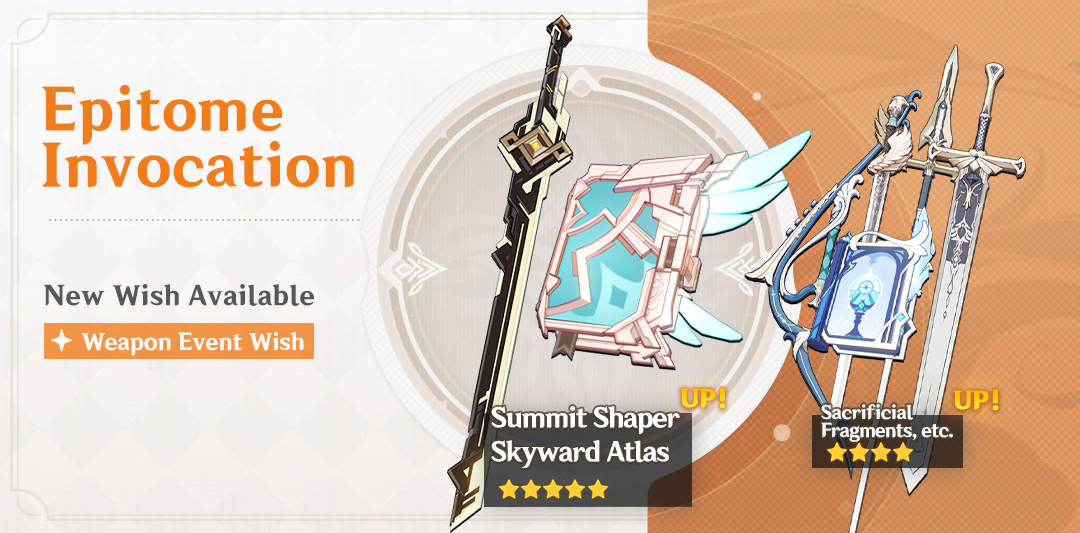
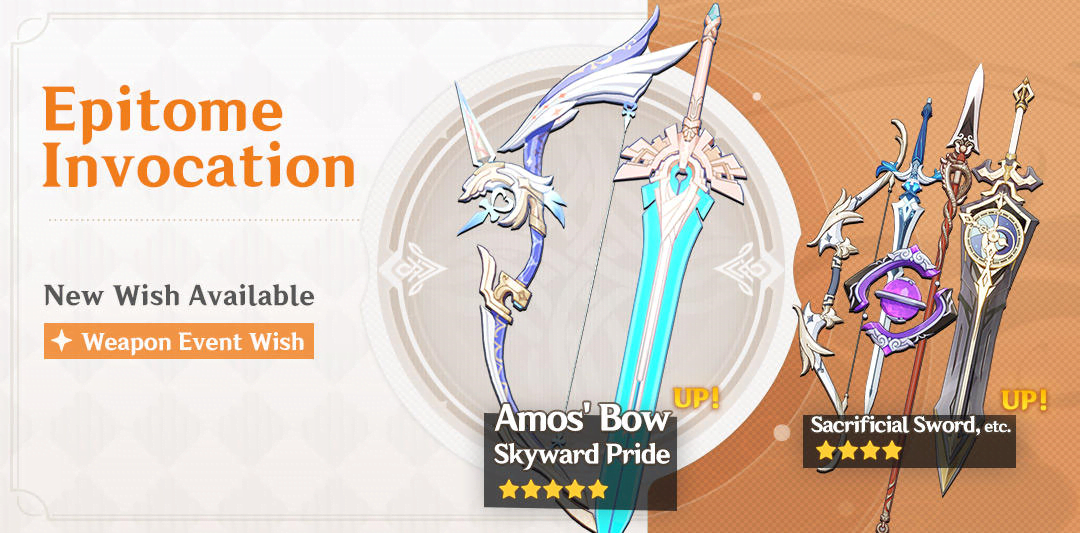
fix genshin-impact 祈愿武器up

diff --git a/assets/js/genshin-event-timeline.js b/assets/js/genshin-event-timeline.js
@@ -630,6 +630,17 @@ const eventsData = [
         {
             name: 'Epitome Invocation - Weapon Banner',
             pos: '30% 30%',
+            image: 'epitome_invocation_7.jpg',
+            start: '',
+            end: '',
+            color: '#FFAA4B',
+            url: '',
+            showOnHome: true,
+            timezoneDependent: true,
+        },
+        {
+            name: 'Epitome Invocation - Weapon Banner',
+            pos: '30% 30%',
             image: 'epitome_invocation_8.jpg',
             start: '2021-02-23 18:00:00',
             end: '2021-03-16 14:59:59',
